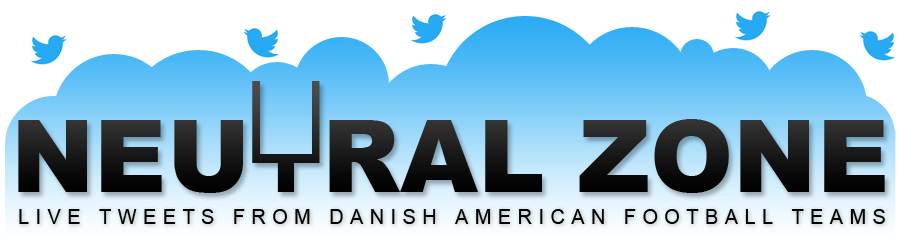
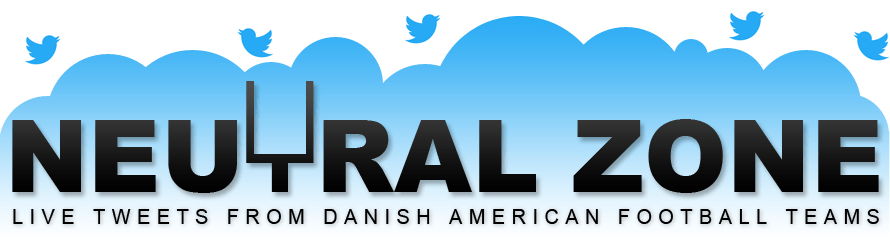
Optimized header.png and no-picture.png, and resized header.png to 890px width
Changed site width from 900px to 890px

diff --git a/public/index.html b/public/index.html
@@ -17,7 +17,7 @@
       .tweets,
       footer {
         margin: 0 auto;
-        max-width: 900px;
+        max-width: 890px;
       }
 
       header img {
@@ -129,7 +129,7 @@
   </head>
   <body>
     <header>
-      <img src='images/header.png' width='900' height='250' alt='Neutral Zone - Live tweets from Danish American football teams' />
+      <img src='images/header.png' width='890' height='250' alt='Neutral Zone - Live tweets from Danish American football teams' />
     </header>
 
     <ul id='tweets' class='tweets'></ul>
